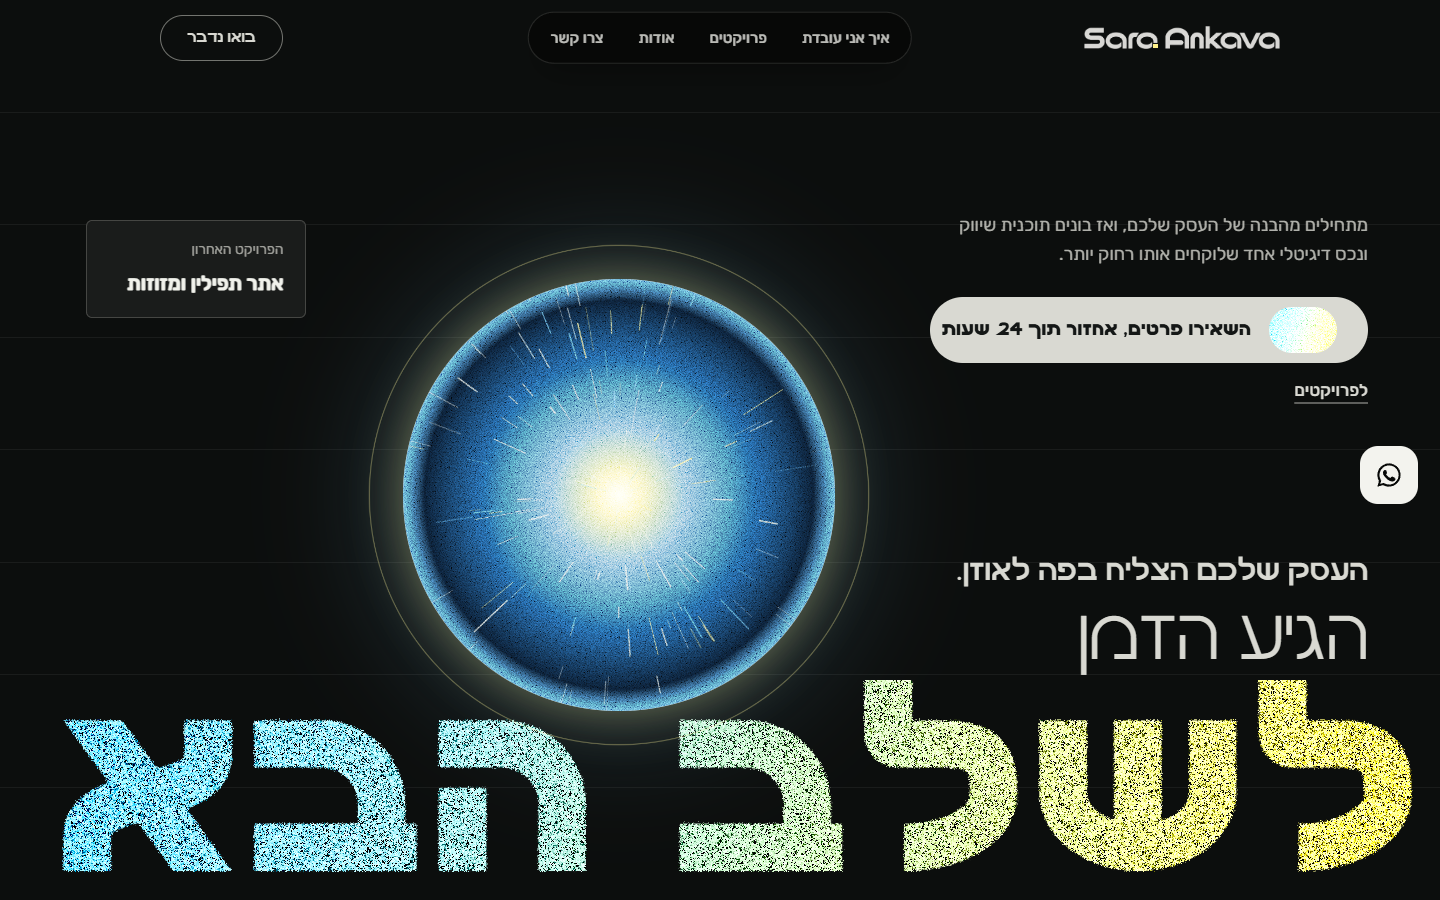
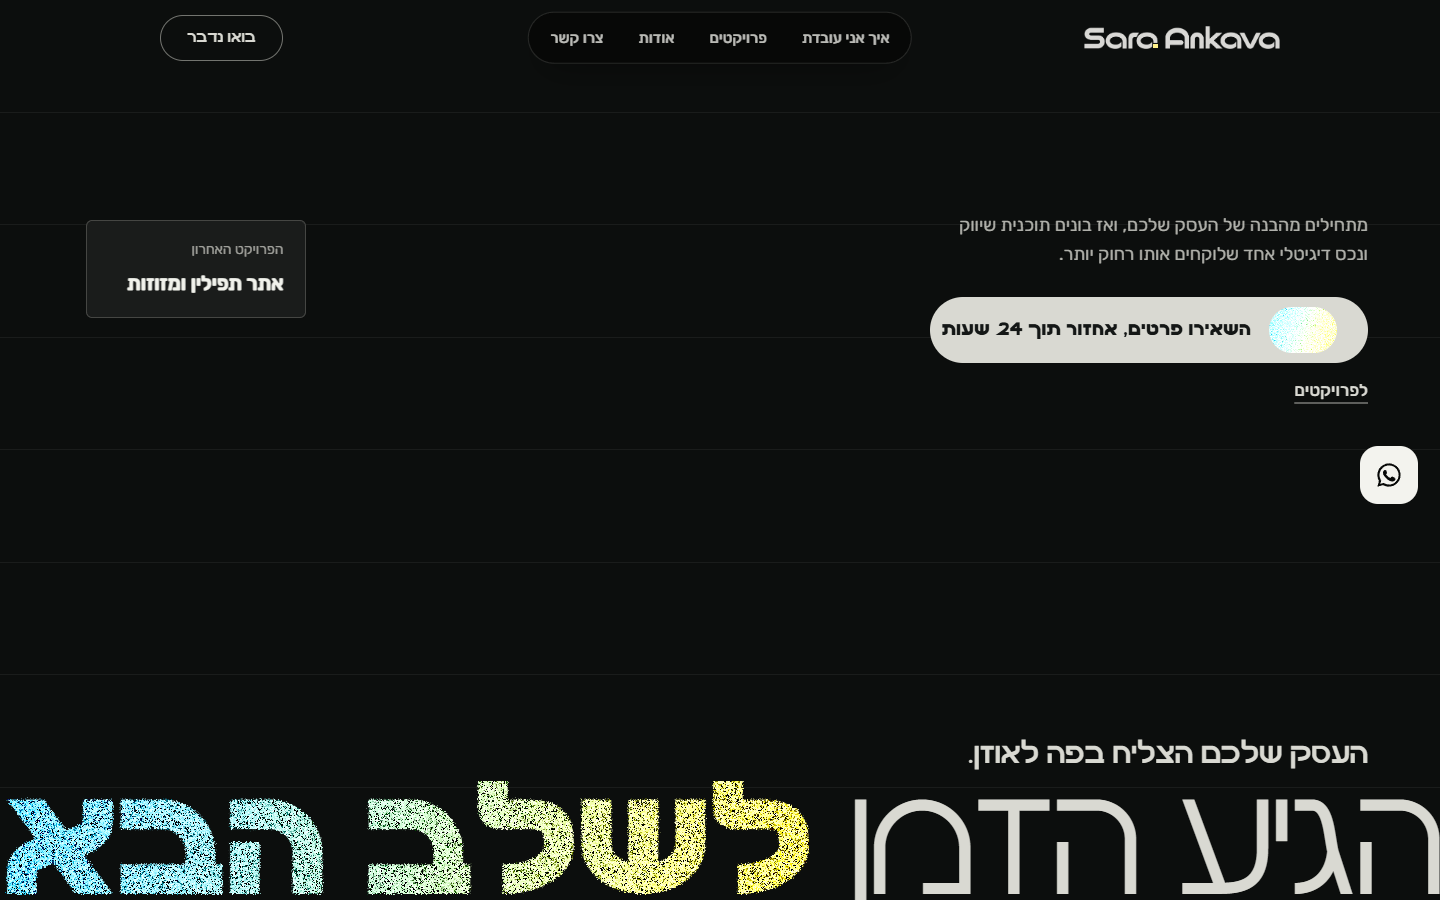
v6 hero: orb removed, title edge-to-edge on one line at the bottom, tighter letter spacing

Changed region(s): [[0.0, 0.28, 1.0, 1.0], [0.6562, 0.6222, 0.9688, 0.6533]]

diff --git a/versions/v6/index.html b/versions/v6/index.html
@@ -18,7 +18,7 @@
 <link rel="preload" href="assets/fonts/SaraAnkava-Bold-v1.2.woff2" as="font" type="font/woff2" crossorigin>
 <link rel="stylesheet" href="assets/css/style.css?v=6">
 <link rel="stylesheet" href="assets/css/v4.css?v=4">
-<link rel="stylesheet" href="assets/css/v6.css?v=30">
+<link rel="stylesheet" href="assets/css/v6.css?v=33">
 <meta name="robots" content="noindex">
 <script>document.documentElement.classList.add('js');setTimeout(function(){if(!window.__saReady)document.documentElement.classList.remove('js')},3000)</script>
 <script type="application/ld+json">
@@ -54,7 +54,6 @@
   <svg width="0" height="0" style="position:absolute" aria-hidden="true"><filter id="v6rough" x="-2%" y="-2%" width="104%" height="104%"><feTurbulence type="fractalNoise" baseFrequency=".8" numOctaves="2" seed="2" result="n"/><feDisplacementMap in="SourceGraphic" in2="n" scale="5" xChannelSelector="R" yChannelSelector="G"/></filter></svg>
   <section class="h6 gx" id="top" aria-labelledby="hero-title">
     <div class="h6__grid" aria-hidden="true"><i></i><i></i><i></i><i></i><i></i><i></i><i></i><i></i></div>
-    <div class="h6__orb" aria-hidden="true"><i class="r r1"></i><i class="r r2"></i><i class="r r3"></i><div class="h6__disc"><canvas id="orb" width="720" height="720"></canvas></div></div>
     <a class="h6__card" href="#projects"><span>הפרויקט האחרון</span><b>אתר תפילין ומזוזות</b></a>
     <div class="h6__info">
       <p class="h6__p">מתחילים מהבנה של העסק שלכם, ואז בונים תוכנית שיווק ונכס דיגיטלי אחד שלוקחים אותו רחוק יותר.</p>
@@ -62,8 +61,7 @@
     </div>
     <h1 class="h6__title" id="hero-title">
       <span class="h6__small">העסק שלכם הצליח בפה לאוזן.</span>
-      <span class="h6__mid">הגיע הזמן</span>
-      <span class="h6__big" data-fit><span><span class="w w2 gr-text">לשלב הבא</span></span></span>
+      <span class="h6__big" data-fit><span><span class="w w1">הגיע הזמן</span> <span class="w w2 gr-text">לשלב הבא</span></span></span>
     </h1>
   </section>
 
@@ -499,35 +497,12 @@
   if(still){var s=document.createElement("style");s.textContent=".h6__big>span,.h6__info,.h6__mkwrap{animation:none!important;opacity:1!important;transform:none!important;opacity:1!important}";document.head.appendChild(s)}
   function fit(){
     var big=document.querySelector(".h6__big"),inner=big.firstElementChild,title=document.querySelector(".h6__title");
-    var target=title.clientWidth-2*(innerWidth*0.012);
-    var mob=matchMedia("(max-width:900px)").matches;
-    big.querySelectorAll(".w").forEach(function(el){el.style.fontSize=""});if(!mob){inner.style.display="inline-block";inner.style.fontSize="100px";var w=inner.getBoundingClientRect().width;inner.style.fontSize=(100*target/w)+"px";return}
-    inner.style.display="block";inner.style.fontSize="";
-    big.querySelectorAll(".w").forEach(function(el){el.style.fontSize="100px";var w=el.getBoundingClientRect().width;el.style.fontSize=(100*(innerWidth-2*20)/w)+"px"})
+    var target=title.clientWidth;
+    inner.style.display="inline-block";inner.style.fontSize="100px";
+    var w=inner.getBoundingClientRect().width;inner.style.fontSize=(100*target/w)+"px"
   }
   var go=function(){fit()};
-  (document.fonts&&document.fonts.ready?document.fonts.ready:Promise.resolve()).then(go);addEventListener("resize",go);go();
-})()</script>
-<script>(function(){
-  var cv=document.getElementById("orb");if(!cv)return;var ctx=cv.getContext("2d"),S=cv.width,C=S/2,R=S/2;
-  var reduce=matchMedia("(prefers-reduced-motion:reduce)").matches;
-  var P=[];for(var i=0;i<190;i++)P.push({a:Math.random()*6.283,r:Math.random(),s:.002+Math.random()*.006,l:.04+Math.random()*.16,al:.25+Math.random()*.75,w:.6+Math.random()*1.8,c:Math.random()<.55?"255,255,240":(Math.random()<.5?"255,240,138":"134,211,255")});
-  var t=0;
-  function draw(){
-    ctx.clearRect(0,0,S,S);
-    var g=ctx.createRadialGradient(C,C,0,C,C,R);
-    g.addColorStop(0,"rgba(255,255,244,1)");g.addColorStop(.10,"rgba(255,246,176,.96)");g.addColorStop(.30,"rgba(134,211,255,.78)");g.addColorStop(.62,"rgba(26,86,140,.92)");g.addColorStop(.9,"rgba(10,26,44,1)");g.addColorStop(1,"rgba(90,160,210,1)");
-    ctx.fillStyle=g;ctx.fillRect(0,0,S,S);
-    ctx.save();ctx.translate(C,C);ctx.lineCap="round";
-    for(var i=0;i<P.length;i++){var p=P[i];if(!reduce){p.r+=p.s;if(p.r>1){p.r=.02;p.a=Math.random()*6.283}}
-      var r0=p.r*R,r1=Math.min(R,r0+p.l*R*(.4+p.r)),ca=Math.cos(p.a),sa=Math.sin(p.a);
-      ctx.strokeStyle="rgba("+p.c+","+(p.al*(1-p.r*.55))+")";ctx.lineWidth=p.w;ctx.beginPath();ctx.moveTo(ca*r0,sa*r0);ctx.lineTo(ca*r1,sa*r1);ctx.stroke()}
-    ctx.restore();
-    var core=ctx.createRadialGradient(C,C,0,C,C,R*.34);core.addColorStop(0,"rgba(255,255,245,"+(.95+.05*Math.sin(t))+")");core.addColorStop(.5,"rgba(255,246,176,.35)");core.addColorStop(1,"rgba(255,246,176,0)");
-    ctx.fillStyle=core;ctx.fillRect(0,0,S,S);
-    t+=.03;if(!reduce)requestAnimationFrame(draw)
-  }
-  draw();
+  (document.fonts&&document.fonts.load?Promise.all([document.fonts.load('300 40px "Sara Ankava"'),document.fonts.load('700 40px "Sara Ankava"')]):Promise.resolve()).then(function(){return document.fonts.ready}).then(go,go);addEventListener("resize",go);go();
 })()</script>
 </body>
 </html>

diff --git a/versions/v6/assets/css/v6.css b/versions/v6/assets/css/v6.css
@@ -188,3 +188,15 @@ body::before,body::after{display:none!important}
 @media (prefers-reduced-motion:reduce){.h6__orb .r{animation:none;display:none}}
 @media (min-width:901px){.h6__orb{left:43%;width:min(30vw,440px);bottom:21vh}}
 @media (max-width:900px){.cta6--main{min-height:58px;gap:12px;padding:6px 20px 6px 8px;font-size:15px}.cta6--main::before{width:48px;height:36px}.h6__ctas{width:100%}}
+
+/* ===== הכותרת נוגעת בקצוות המסך ובתחתית; משפט אחד בשורה אחת; ריווח אותיות מצומצם ===== */
+.h6__title{margin:0 calc(var(--v6-m) * -1)}
+.h6__small{padding:0 var(--v6-m) .8vw;letter-spacing:-.015em}
+.h6__big{white-space:nowrap;letter-spacing:-.05em;line-height:.8;padding:0;margin-bottom:-.2em;overflow:hidden}
+.h6__big>span{white-space:nowrap}
+.h6__big .w1{font-weight:300}
+.h6__big .w2{font-weight:700}
+@media (max-width:900px){.h6__big{white-space:nowrap;margin-bottom:-.18em}.h6__big .w{display:inline}.h6__title{margin-top:auto}}
+
+.h6__big{letter-spacing:0}.h6__big>span{letter-spacing:-.04em}
+@media (max-width:900px){.h6__big{margin-bottom:0;padding-bottom:4px}}
